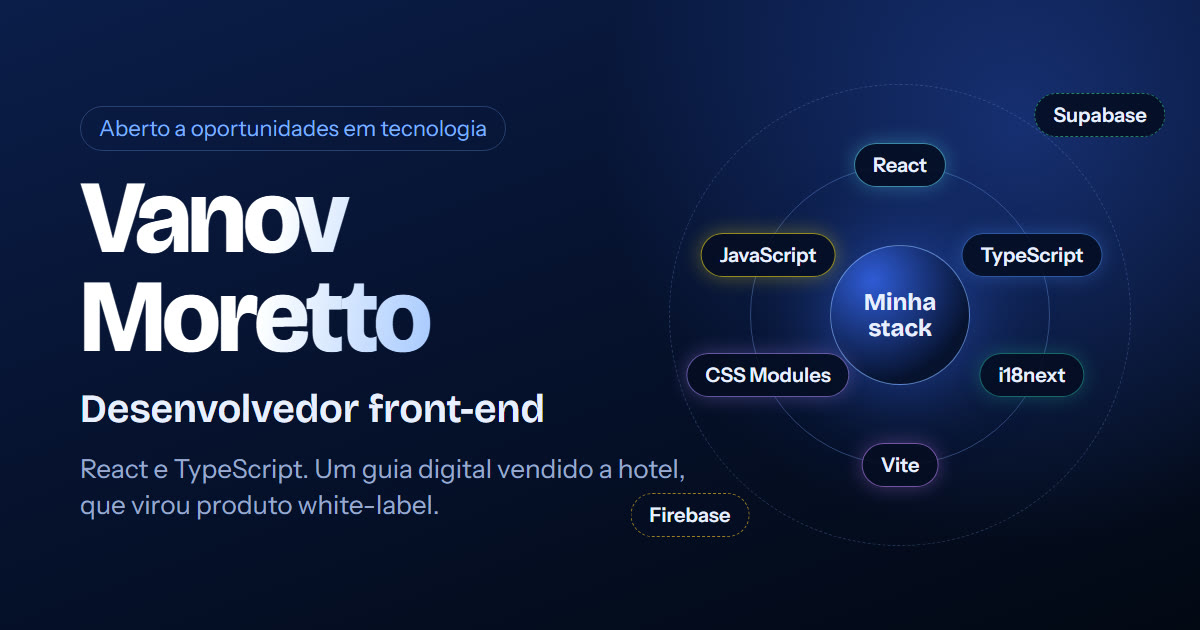
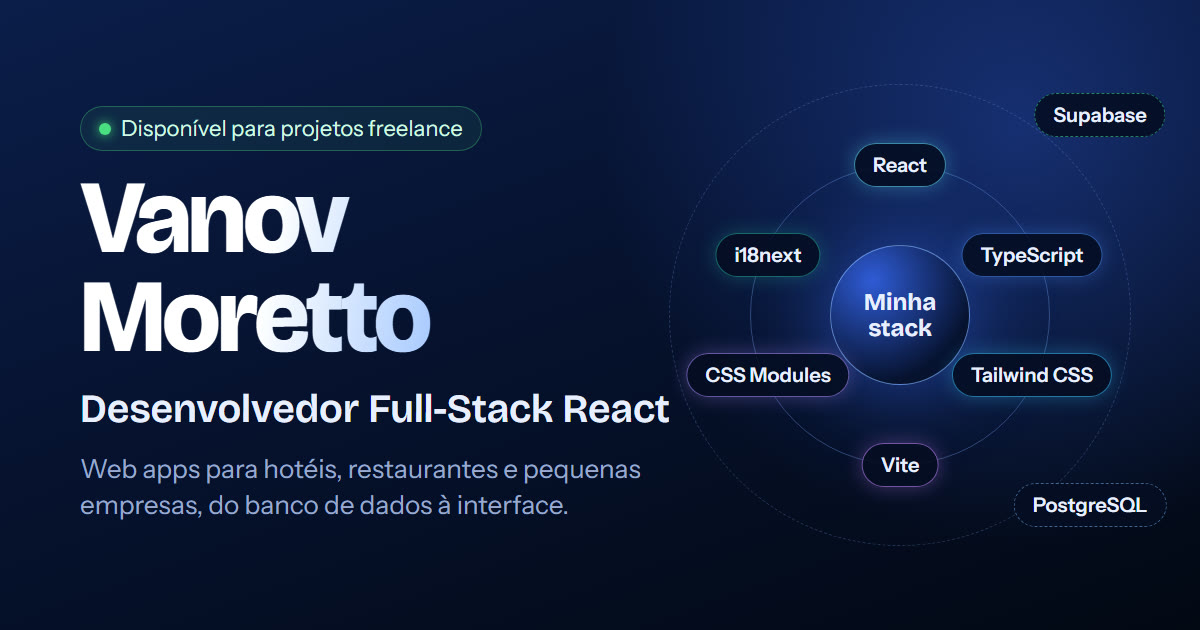
feat: contato por WhatsApp e cases do Astrolábio sem links
- Botão de WhatsApp no contato e ícone junto das redes sociais, com mensagem pronta nos 3 idiomas
- Botão "Quero no meu hotel" no Digital Concierge, abrindo o WhatsApp
- Astrolábio v1 e Gen sem links de demo e de código, com textos genéricos
- Digital Concierge com a demo no novo endereço e sem link de código
- Nova imagem de prévia do link

diff --git a/src/components/Social.tsx b/src/components/Social.tsx
@@ -1,6 +1,6 @@
 import type { ReactElement } from 'react'
 import { useTranslation } from 'react-i18next'
-import { perfil } from '../data'
+import { linkWhatsApp, perfil } from '../data'
 import s from './Social.module.css'
 
 const Github = () => (
@@ -15,6 +15,12 @@ const Linkedin = () => (
   </svg>
 )
 
+const WhatsApp = () => (
+  <svg viewBox="0 0 24 24" fill="currentColor" aria-hidden="true">
+    <path d="M17.472 14.382c-.297-.149-1.758-.867-2.03-.967-.273-.099-.471-.148-.67.15-.197.297-.767.966-.94 1.164-.173.199-.347.223-.644.075-.297-.15-1.255-.463-2.39-1.475-.883-.788-1.48-1.761-1.653-2.059-.173-.297-.018-.458.13-.606.134-.133.298-.347.446-.52.149-.174.198-.298.298-.497.099-.198.05-.371-.025-.52-.075-.149-.669-1.612-.916-2.207-.242-.579-.487-.5-.669-.51-.173-.008-.371-.01-.57-.01-.198 0-.52.074-.792.372-.272.297-1.04 1.016-1.04 2.479 0 1.462 1.065 2.875 1.213 3.074.149.198 2.096 3.2 5.077 4.487.709.306 1.262.489 1.694.625.712.227 1.36.195 1.871.118.571-.085 1.758-.719 2.006-1.413.248-.694.248-1.289.173-1.413-.074-.124-.272-.198-.57-.347m-5.421 7.403h-.004a9.87 9.87 0 0 1-5.031-1.378l-.361-.214-3.741.982.998-3.648-.235-.374a9.86 9.86 0 0 1-1.51-5.26c.001-5.45 4.436-9.884 9.888-9.884 2.64 0 5.122 1.03 6.988 2.898a9.825 9.825 0 0 1 2.893 6.994c-.003 5.45-4.437 9.884-9.885 9.884m8.413-18.297A11.815 11.815 0 0 0 12.05 0C5.495 0 .16 5.335.157 11.892c0 2.096.547 4.142 1.588 5.945L.057 24l6.305-1.654a11.882 11.882 0 0 0 5.683 1.448h.005c6.554 0 11.89-5.335 11.893-11.893a11.821 11.821 0 0 0-3.48-8.413z" />
+  </svg>
+)
+
 const Email = () => (
   <svg viewBox="0 0 24 24" fill="none" stroke="currentColor" strokeWidth="1.8" strokeLinecap="round" strokeLinejoin="round" aria-hidden="true">
     <rect x="3" y="5" width="18" height="14" rx="2.5" />
@@ -22,12 +28,13 @@ const Email = () => (
   </svg>
 )
 
-// semEmail: quando a seção já tem um botão de e-mail próprio
-export default function Social({ semEmail = false }: { semEmail?: boolean }) {
+// semEmail / semWhatsapp: a seção já tem botão próprio
+export default function Social({ semEmail = false, semWhatsapp = false }: { semEmail?: boolean; semWhatsapp?: boolean }) {
   const { t } = useTranslation()
   const links = [
     { nome: 'GitHub', href: perfil.github, icone: <Github /> },
     perfil.linkedin && { nome: 'LinkedIn', href: perfil.linkedin, icone: <Linkedin /> },
+    !semWhatsapp && { nome: t('social.whatsapp'), href: linkWhatsApp(t('contato.whatsappMensagem')), icone: <WhatsApp /> },
     !semEmail && perfil.email && { nome: t('social.email'), href: `mailto:${perfil.email}`, icone: <Email />, email: true },
   ].filter(Boolean) as { nome: string; href: string; icone: ReactElement; email?: boolean }[]
 

diff --git a/src/i18n/es.ts b/src/i18n/es.ts
@@ -75,6 +75,8 @@ const es: Mensagens = {
     lead: 'Dos ya funcionan a diario en un hotel real y el tercero está en la recta final. Uno de ellos se vendió y se convirtió en producto.',
     outros: 'Otros proyectos',
     verOnline: 'Ver en línea',
+    queroNoHotel: 'Lo quiero en mi hotel',
+    queroMensagem: '¡Hola, Vanov! Vi el Digital Concierge en tu portafolio y quiero saber cómo tener la guía digital en mi hotel.',
     codigo: 'Código',
     restrito: 'Uso interno, con datos reales del hotel',
     captura: 'Captura de pantalla de {{nome}}',
@@ -97,11 +99,11 @@ const es: Mensagens = {
       },
       astrolabioV1: {
         nome: 'Astrolábio',
-        resumo: 'Vendido al Swan Novo Hamburgo, donde está en uso en unas 160 habitaciones. El huésped la abre con un código QR y encuentra todo en acordeones, en 4 idiomas.',
+        resumo: 'Guía digital del huésped vendida al Swan Novo Hamburgo, en uso en unas 160 habitaciones y disponible en 4 idiomas.',
       },
       astrolabioGen: {
         nome: 'Astrolábio Gen',
-        resumo: 'Reescrito en TypeScript para otro hotel de la cadena, con minibar y guía de canales SKY con búsqueda en modales y teléfonos interactivos.',
+        resumo: 'Una nueva versión, reescrita en TypeScript y con identidad visual propia, hecha para otro hotel de la cadena.',
       },
       digitalConcierge: {
         nome: 'Digital Concierge',
@@ -157,8 +159,10 @@ const es: Mensagens = {
     chamada: '¿Tienes un proyecto en mente?',
     lead: 'Cuéntame qué necesitas y te respondo con un plan y un presupuesto. También estoy abierto a puestos de desarrollador full-stack.',
     email: 'Enviar e-mail',
+    whatsapp: 'Escríbeme por WhatsApp',
+    whatsappMensagem: '¡Hola, Vanov! Vi tu portafolio y quiero hablar sobre un proyecto.',
   },
-  social: { email: 'E-mail' },
+  social: { email: 'E-mail', whatsapp: 'WhatsApp' },
   rodape: '© {{ano}} {{nome}}. Hecho con React, TypeScript, i18next y CSS Modules.',
 }
 

diff --git a/src/i18n/en.ts b/src/i18n/en.ts
@@ -75,6 +75,8 @@ const en: Mensagens = {
     lead: 'Two of them run every day at a real hotel and the third is in its final stage. One was sold and became a product.',
     outros: 'Other projects',
     verOnline: 'Live demo',
+    queroNoHotel: 'I want it for my hotel',
+    queroMensagem: "Hi Vanov! I saw Digital Concierge in your portfolio and I'd like to know how to get the digital guide for my hotel.",
     codigo: 'Code',
     restrito: 'Internal tool with real hotel data',
     captura: 'Screenshot of {{nome}}',
@@ -97,11 +99,11 @@ const en: Mensagens = {
       },
       astrolabioV1: {
         nome: 'Astrolábio',
-        resumo: 'Sold to Swan Novo Hamburgo, where it is live in about 160 rooms. Guests open it from a QR code and find everything in accordions, in 4 languages.',
+        resumo: 'A digital guest guide sold to Swan Novo Hamburgo, in use in about 160 rooms and available in 4 languages.',
       },
       astrolabioGen: {
         nome: 'Astrolábio Gen',
-        resumo: 'Rewritten in TypeScript for another hotel in the chain, with the minibar and a searchable SKY TV guide in modals and an interactive phone list.',
+        resumo: 'A new version, rewritten in TypeScript with its own visual identity, built for another hotel in the chain.',
       },
       digitalConcierge: {
         nome: 'Digital Concierge',
@@ -157,8 +159,10 @@ const en: Mensagens = {
     chamada: 'Have a project in mind?',
     lead: "Tell me what you need and I'll reply with a plan and a quote. I'm also open to full-stack developer roles.",
     email: 'Send an email',
+    whatsapp: 'Message me on WhatsApp',
+    whatsappMensagem: "Hi Vanov! I saw your portfolio and I'd like to talk about a project.",
   },
-  social: { email: 'Email' },
+  social: { email: 'Email', whatsapp: 'WhatsApp' },
   rodape: '© {{ano}} {{nome}}. Built with React, TypeScript, i18next and CSS Modules.',
 }
 

diff --git a/src/i18n/pt.ts b/src/i18n/pt.ts
@@ -73,6 +73,8 @@ const pt = {
     lead: 'Dois já rodam no dia a dia de um hotel de verdade e o terceiro está na reta final. Um deles foi vendido e virou produto.',
     outros: 'Outros projetos',
     verOnline: 'Ver online',
+    queroNoHotel: 'Quero no meu hotel',
+    queroMensagem: 'Olá, Vanov! Vi o Digital Concierge no seu portfólio e quero saber como ter o guia digital no meu hotel.',
     codigo: 'Código',
     restrito: 'Uso interno, com dados reais do hotel',
     captura: 'Captura de tela do {{nome}}',
@@ -96,11 +98,11 @@ const pt = {
       },
       astrolabioV1: {
         nome: 'Astrolábio',
-        resumo: 'Vendido ao Swan Novo Hamburgo, onde está no ar nos cerca de 160 quartos. O hóspede abre pelo QR Code e encontra tudo em acordeões, em 4 idiomas.',
+        resumo: 'Guia digital do hóspede vendido ao Swan Novo Hamburgo, em uso nos cerca de 160 quartos e disponível em 4 idiomas.',
       },
       astrolabioGen: {
         nome: 'Astrolábio Gen',
-        resumo: 'Reescrito em TypeScript para outro hotel da rede, com frigobar e guia de canais SKY com busca em modais e telefones interativos.',
+        resumo: 'Nova versão, reescrita em TypeScript e com identidade visual própria, feita para outro hotel da rede.',
       },
       digitalConcierge: {
         nome: 'Digital Concierge',
@@ -156,8 +158,10 @@ const pt = {
     chamada: 'Tem um projeto em mente?',
     lead: 'Conte o que você precisa e eu respondo com um plano e um orçamento. Também estou aberto a vagas de desenvolvedor full-stack.',
     email: 'Enviar e-mail',
+    whatsapp: 'Chamar no WhatsApp',
+    whatsappMensagem: 'Olá, Vanov! Vi seu portfólio e quero conversar sobre um projeto.',
   },
-  social: { email: 'E-mail' },
+  social: { email: 'E-mail', whatsapp: 'WhatsApp' },
   rodape: '© {{ano}} {{nome}}. Feito com React, TypeScript, i18next e CSS Modules.',
 }
 

diff --git a/src/components/Projects.tsx b/src/components/Projects.tsx
@@ -1,6 +1,6 @@
 import type { CSSProperties, MouseEvent } from 'react'
 import { useTranslation } from 'react-i18next'
-import { corDa, outrosProjetos, projetos, type Projeto, type ProjetoId, type Status } from '../data'
+import { corDa, linkWhatsApp, outrosProjetos, projetos, type Projeto, type ProjetoId, type Status } from '../data'
 import s from './Projects.module.css'
 
 function inclinar(e: MouseEvent<HTMLElement>) {
@@ -41,12 +41,17 @@ function Tags({ p }: { p: Projeto }) {
   )
 }
 
-function Links({ demo, repo, restrito }: { demo?: string; repo?: string; restrito?: boolean }) {
+function Links({ demo, repo, restrito, pedido }: { demo?: string; repo?: string; restrito?: boolean; pedido?: boolean }) {
   const { t } = useTranslation()
   return (
     <div className={s.links}>
       {demo && <a href={demo} target="_blank" rel="noreferrer">{t('projetos.verOnline')}</a>}
       {repo && <a href={repo} target="_blank" rel="noreferrer">{t('projetos.codigo')}</a>}
+      {pedido && (
+        <a className={s.pedido} href={linkWhatsApp(t('projetos.queroMensagem'))} target="_blank" rel="noreferrer">
+          {t('projetos.queroNoHotel')}
+        </a>
+      )}
       {restrito && (
         <span className={s.restrito}>
           <svg viewBox="0 0 24 24" fill="none" stroke="currentColor" strokeWidth="2" strokeLinecap="round" aria-hidden="true">
@@ -100,7 +105,7 @@ function Case({ p }: { p: Projeto }) {
                 {t(`projetos.status.${e.status}`) && <span>{t(`projetos.status.${e.status}`)}</span>}
               </h4>
               <p>{textos(e.id).resumo}</p>
-              <Links demo={e.demo} repo={e.repo} />
+              <Links demo={e.demo} repo={e.repo} pedido={e.pedido} />
             </li>
           ))}
         </ol>

diff --git a/src/data.ts b/src/data.ts
@@ -3,7 +3,11 @@ export const perfil = {
   github: 'https://github.com/VanovMoretto',
   linkedin: 'https://www.linkedin.com/in/vanovmoretto/',
   email: 'vanovmoretto@gmail.com',
+  whatsapp: '5514991190427',
+  whatsappVisivel: '+55 14 99119-0427',
 }
+
+export const linkWhatsApp = (mensagem: string) => `https://wa.me/${perfil.whatsapp}?text=${encodeURIComponent(mensagem)}`
 
 export type Tech = { nome: string; cor: string }
 
@@ -52,7 +56,7 @@ export type ProjetoId =
   | 'coworking'
   | 'painterRobot'
 
-export type Etapa = { id: ProjetoId; status: Status; repo?: string; demo?: string }
+export type Etapa = { id: ProjetoId; status: Status; repo?: string; demo?: string; pedido?: boolean }
 
 export type Projeto = {
   id: ProjetoId
@@ -74,14 +78,10 @@ export const projetos: Projeto[] = [
     status: 'producao',
     imagem: 'projetos/astrolabio-evolucao.webp',
     etapas: [
-      { id: 'astrolabioV1', status: 'producao', repo: gh + 'astrolabio', demo: 'https://astrolabionh.swanhoteis.com.br/' },
-      {
-        id: 'astrolabioGen',
-        status: 'concluido',
-        repo: gh + 'astrolabioGen',
-        // demo: 'https://vanovmoretto.github.io/astrolabioGen/', // liberar depois da venda
-      },
-      { id: 'digitalConcierge', status: 'venda', repo: gh + 'digital-concierge', demo: 'https://vanovmoretto.github.io/digital-concierge/' },
+      // v1 e Gen: só imagem e texto (contrato de cessão do v1)
+      { id: 'astrolabioV1', status: 'producao' },
+      { id: 'astrolabioGen', status: 'concluido' },
+      { id: 'digitalConcierge', status: 'venda', demo: 'https://digital-concierge.pages.dev/', pedido: true },
     ],
   },
   {

diff --git a/src/components/Contact.module.css b/src/components/Contact.module.css
@@ -4,9 +4,11 @@
   background: linear-gradient(120deg, var(--forte), var(--ceu)); -webkit-background-clip: text; background-clip: text; color: transparent;
 }
 .links { display: flex; flex-wrap: wrap; align-items: center; justify-content: center; gap: 12px; margin-top: 12px }
-.email {
+.botao {
   display: grid; justify-items: start; padding: 10px 24px; border-radius: 14px; color: #fff; font-weight: 600; text-decoration: none; line-height: 1.3;
   background: linear-gradient(135deg, var(--azul), #1a3fb0); box-shadow: 0 8px 30px #2f5bd655; transition: transform .2s, box-shadow .2s;
 }
-.email small { font-weight: 400; font-size: .8rem; opacity: .8 }
-.email:hover { transform: translateY(-2px); box-shadow: 0 12px 40px #2f5bd699 }
+.botao small { font-weight: 400; font-size: .8rem; opacity: .8 }
+.botao:hover { transform: translateY(-2px); box-shadow: 0 12px 40px #2f5bd699 }
+.whatsapp { background: linear-gradient(135deg, #25d366, #128c4b); box-shadow: 0 8px 30px #25d36640 }
+.whatsapp:hover { box-shadow: 0 12px 40px #25d36670 }

diff --git a/src/components/Contact.tsx b/src/components/Contact.tsx
@@ -1,5 +1,5 @@
 import { useTranslation } from 'react-i18next'
-import { perfil } from '../data'
+import { linkWhatsApp, perfil } from '../data'
 import Social from './Social'
 import s from './Contact.module.css'
 
@@ -10,11 +10,15 @@ export default function Contact() {
       <h2 className={`${s.chamada} reveal`}>{t('contato.chamada')}</h2>
       <p className="lead reveal">{t('contato.lead')}</p>
       <div className={`${s.links} reveal`}>
-        <a className={s.email} href={`mailto:${perfil.email}`}>
+        <a className={`${s.botao} ${s.whatsapp}`} href={linkWhatsApp(t('contato.whatsappMensagem'))} target="_blank" rel="noreferrer">
+          {t('contato.whatsapp')}
+          <small>{perfil.whatsappVisivel}</small>
+        </a>
+        <a className={s.botao} href={`mailto:${perfil.email}`}>
           {t('contato.email')}
           <small>{perfil.email}</small>
         </a>
-        <Social semEmail />
+        <Social semEmail semWhatsapp />
       </div>
     </section>
   )

diff --git a/src/components/Projects.module.css b/src/components/Projects.module.css
@@ -31,6 +31,13 @@
 .restrito { display: inline-flex; align-items: center; gap: 6px; color: var(--suave); font-size: .85rem }
 .restrito svg { width: 14px; height: 14px; flex: none }
 
+.links { align-items: center; flex-wrap: wrap }
+.links a.pedido {
+  display: inline-flex; align-items: center; padding: 5px 14px; border-radius: 999px; text-decoration: none; color: #fff;
+  background: linear-gradient(135deg, #25d366, #128c4b); box-shadow: 0 6px 18px -6px #25d366aa; transition: transform .2s, box-shadow .2s;
+}
+.links a.pedido:hover { transform: translateY(-2px); box-shadow: 0 10px 24px -6px #25d366cc }
+
 @media (max-width: 760px) { .grade { grid-template-columns: minmax(0, 1fr) } }
 
 .print { width: 100%; aspect-ratio: 16 / 10; object-fit: cover; object-position: top; border-radius: 12px; border: 1px solid color-mix(in srgb, var(--ceu) 13%, transparent) }

diff --git a/index.html b/index.html
@@ -12,7 +12,7 @@
     <meta property="og:url" content="https://vanovmoretto.github.io/portfolio/" />
     <meta property="og:title" content="Vanov Moretto | Desenvolvedor Full-Stack React" />
     <meta property="og:description" content="Web apps para hotéis, restaurantes e pequenas empresas, do banco de dados à interface. Software que já está em uso." />
-    <meta property="og:image" content="https://vanovmoretto.github.io/portfolio/og.jpg" />
+    <meta property="og:image" content="https://vanovmoretto.github.io/portfolio/og.jpg?v=2" />
     <meta property="og:image:width" content="1200" />
     <meta property="og:image:height" content="630" />
     <meta name="twitter:card" content="summary_large_image" />
